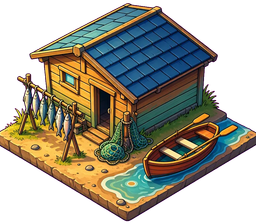
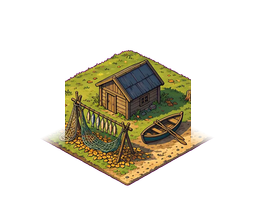
All house variants (16 per tier, 4 ruins), field and mine variants, plots for forester and mines; thinner trees next to buildings

diff --git a/src/render/frontDecor.ts b/src/render/frontDecor.ts
@@ -1,6 +1,11 @@
 import { decorForTile, isTall, type DecorItem } from '../world/decor'
+import { hash2 } from '../world/noise2d'
 import { buildingRing } from '../world/surroundings'
 import type { IslandState } from '../sim/state'
+
+/** Share of the trees, bushes and rocks next to a building that are kept, and how much smaller they are drawn. */
+const FRONT_KEEP = 0.45
+const FRONT_SCALE = 0.8
 
 const HALF_W = 32
 const HALF_H = 16
@@ -38,6 +43,10 @@ function allFrontDecor(state: IslandState): FrontItem[] {
     const ty = (i - tx) / map.width
     for (const item of decorForTile(ctx, tx, ty)) {
       if (!isTall(item.kind)) continue
+      // Next to a building the forest is thinner and the trees smaller, so the building stays visible and clickable
+      // but some trees still stand in front of it.
+      if (hash2(tx * 3 + 1, ty * 5 + 2, state.id + 77) > FRONT_KEEP) continue
+      item.scale *= FRONT_SCALE
       items.push({ item, tx, ty, wx: (item.x - item.y) * HALF_W, wy: (item.x + item.y) * HALF_H, depth: item.x + item.y })
     }
   }

diff --git a/scripts/assets/README.md b/scripts/assets/README.md
@@ -53,6 +53,4 @@ Weitere Optionen: `--parallel 5`, `--provider flux-2-pro` (je nach Anbieter und 
   füllt nur die Mitte, deshalb überlappen Nachbarn nicht und sie fügen sich in Wald oder Berg ein.
 - Bäume, Büsche und Felsen **direkt neben** einem Gebäude werden mit dem Gebäude tiefensortiert gezeichnet (`src/render/frontDecor.ts`),
   einige stehen also vor dem Gebäude. Unter Gebäuden und Straßen wächst nichts: der Wald wird dort gerodet.
-- Ausstehend wegen des erreichten Monatslimits des OpenRouter-Schlüssels: Wohnhaus-Varianten Siedler 9 bis 16 und alle weiteren Stufen
-  (Bürger, Kaufleute, Aristokraten, Ruinen), außerdem Varianten für Farmen, Forsthaus, Fischerei und Minen. Bis sie da sind, nutzt das Spiel
-  die vorhandenen Bilder. Weiter mit: `node scripts/assets/generate.mjs --group "Wohnhäuser"` (erzeugt nur, was fehlt).
+- Alle Varianten sind erzeugt: 16 je Wohnhausstufe, 4 Ruinen, je 4 für Farmen, Forsthaus, Fischerei und Minen.
